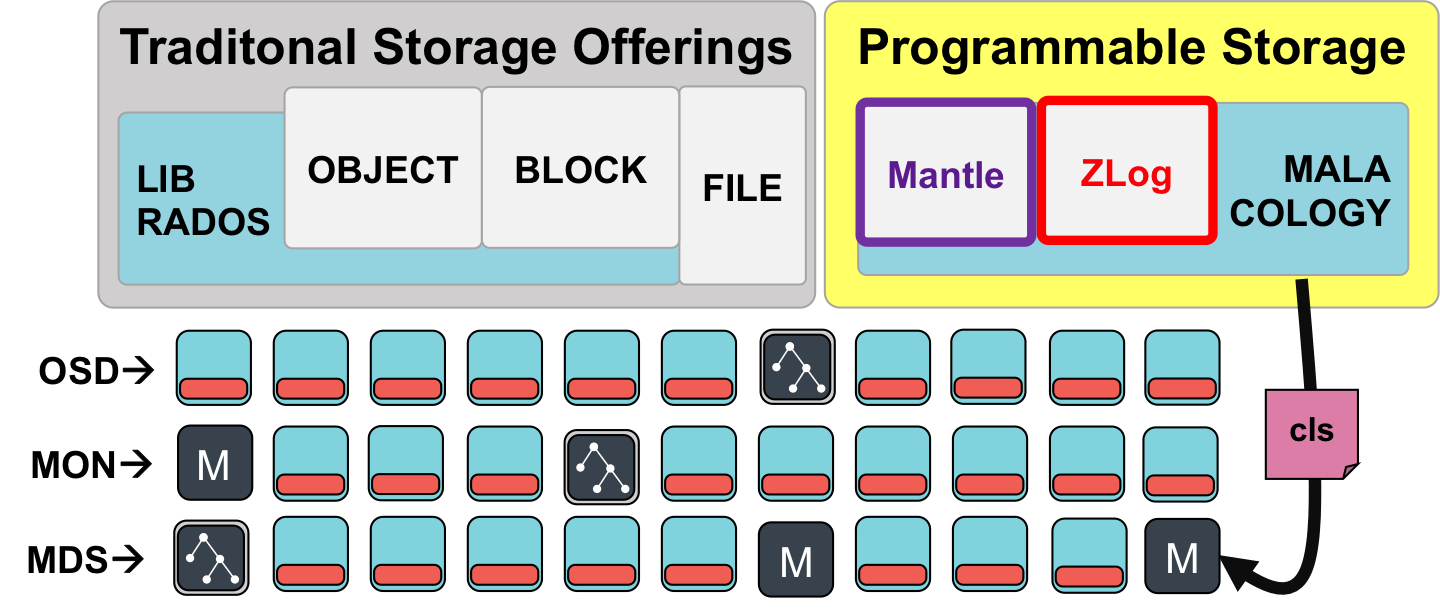
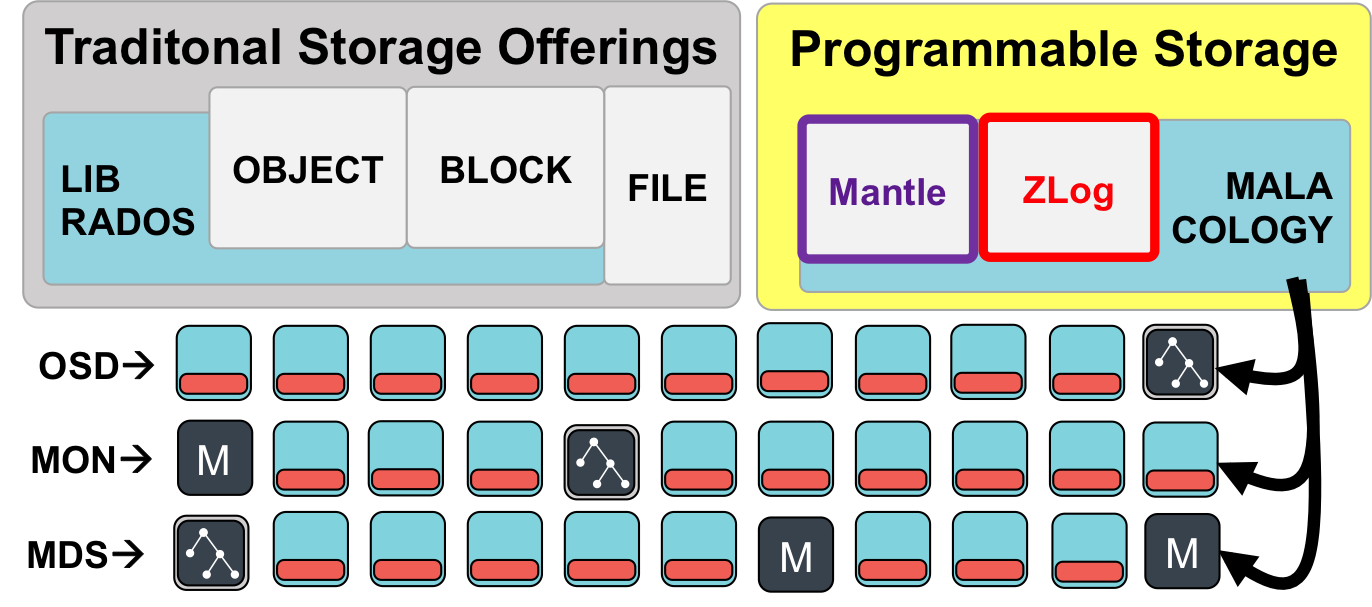
paper: fix fig 1

diff --git a/paper/paper.tex b/paper/paper.tex
@@ -103,7 +103,7 @@ storage daemons (OSDs) to ensure data durability, a few monitor daemons
 consistent versioning, and a few metadata service daemons (MDSs) for
 scalable metadata service. Ceph's APIs include object, block, file
 abstractions. Malacology enables the programmability of these
-abstractions and services. To illustrate Malacology we implement two
+abstractions and services (indicated by bold arrows). To illustrate Malacology we implement two
 services on Ceph, Zlog and Mantle, by programming Ceph's durability,
 consistent versioning, consensus, and metadata subsystems.
 \label{fig:overview}}
